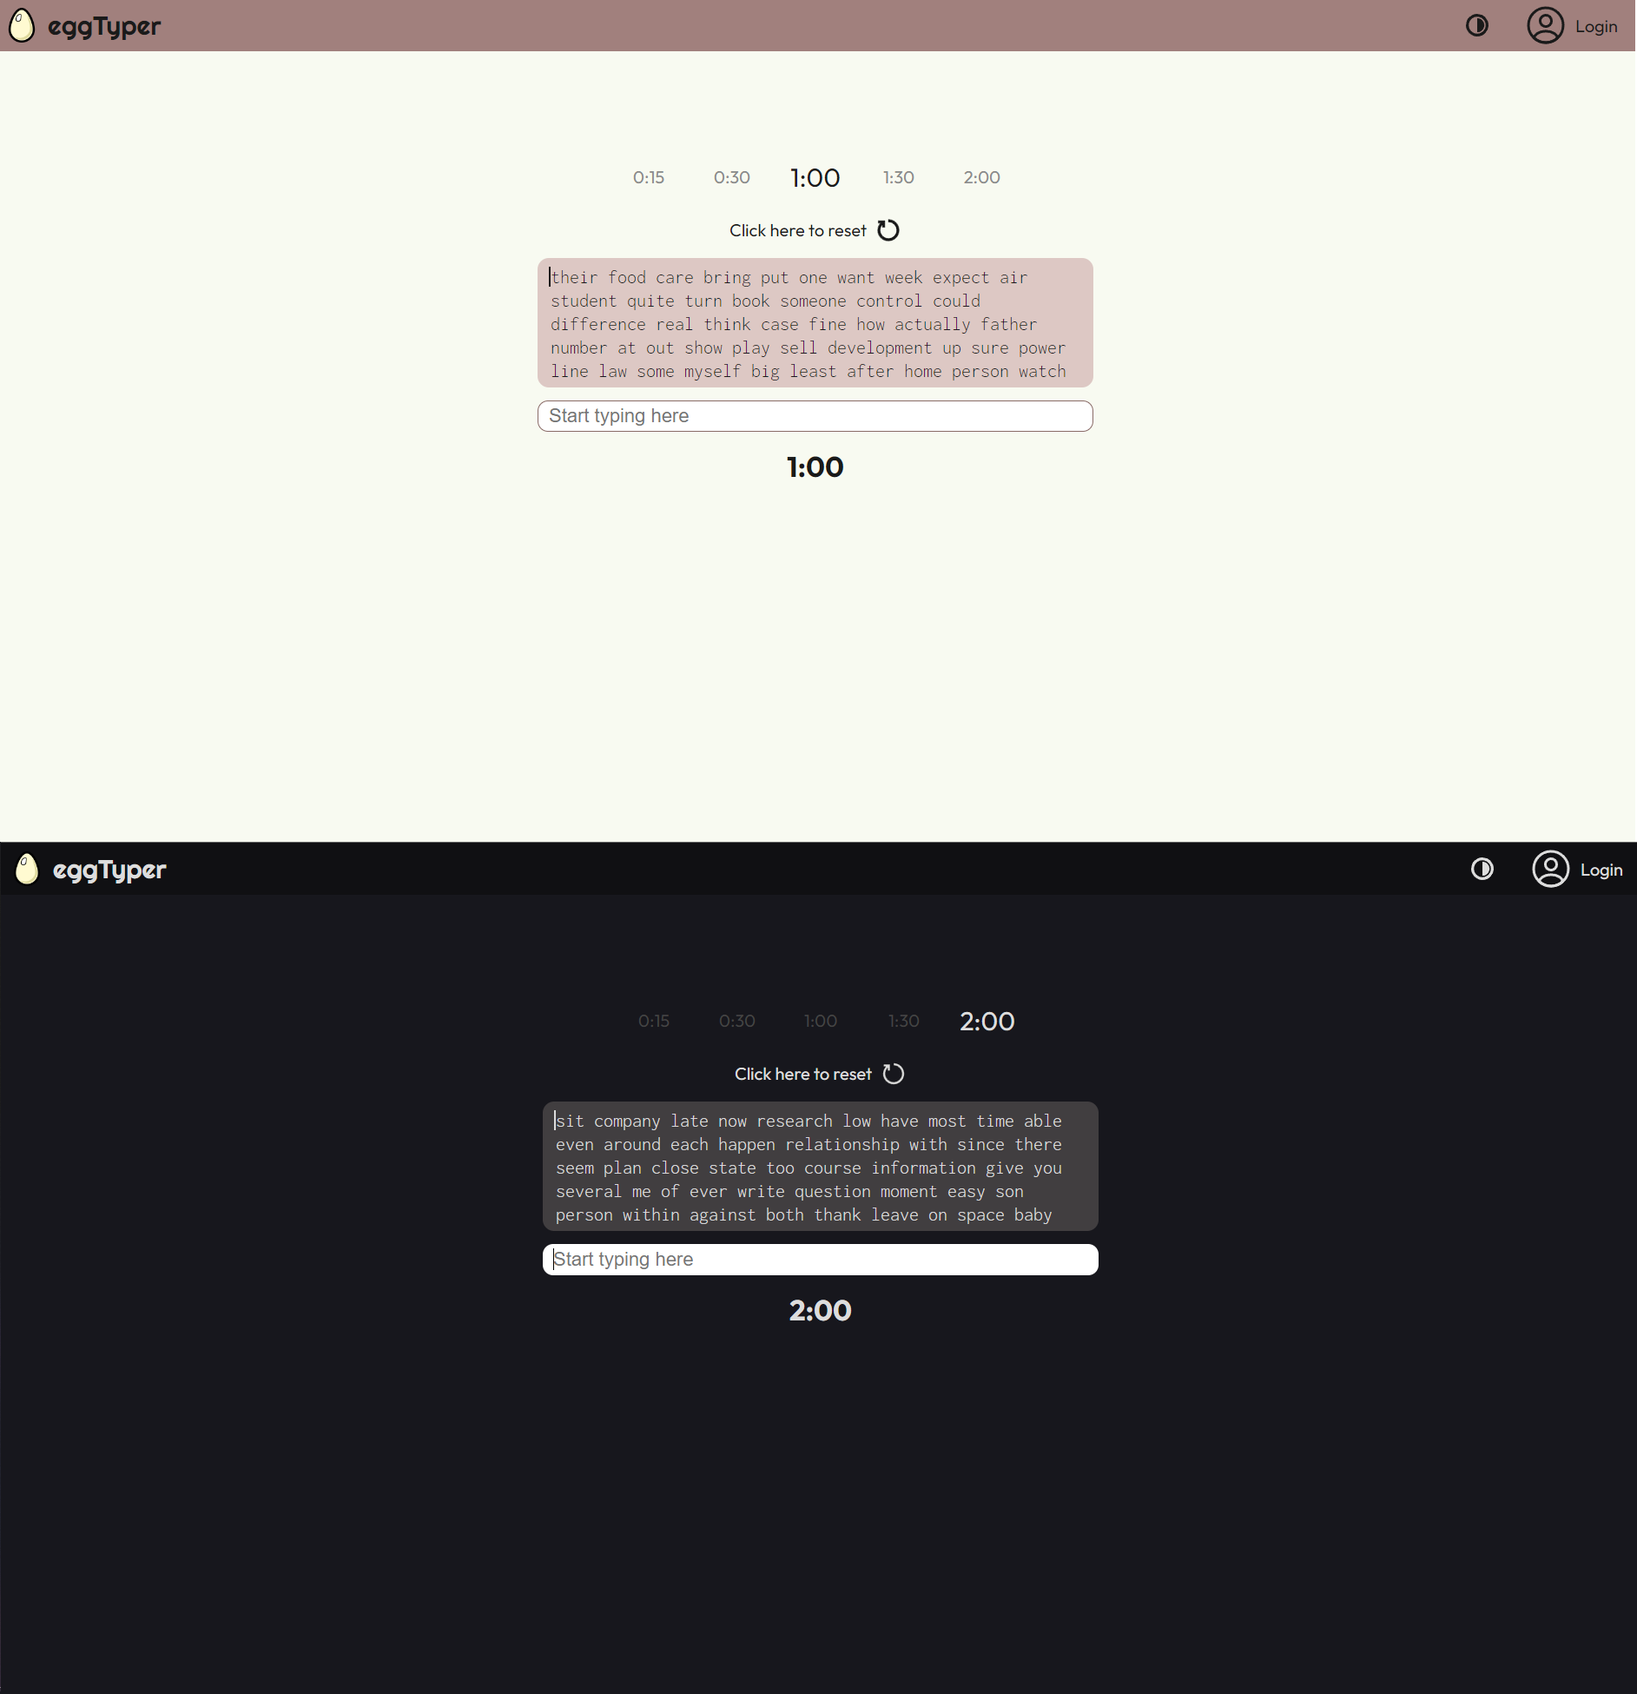
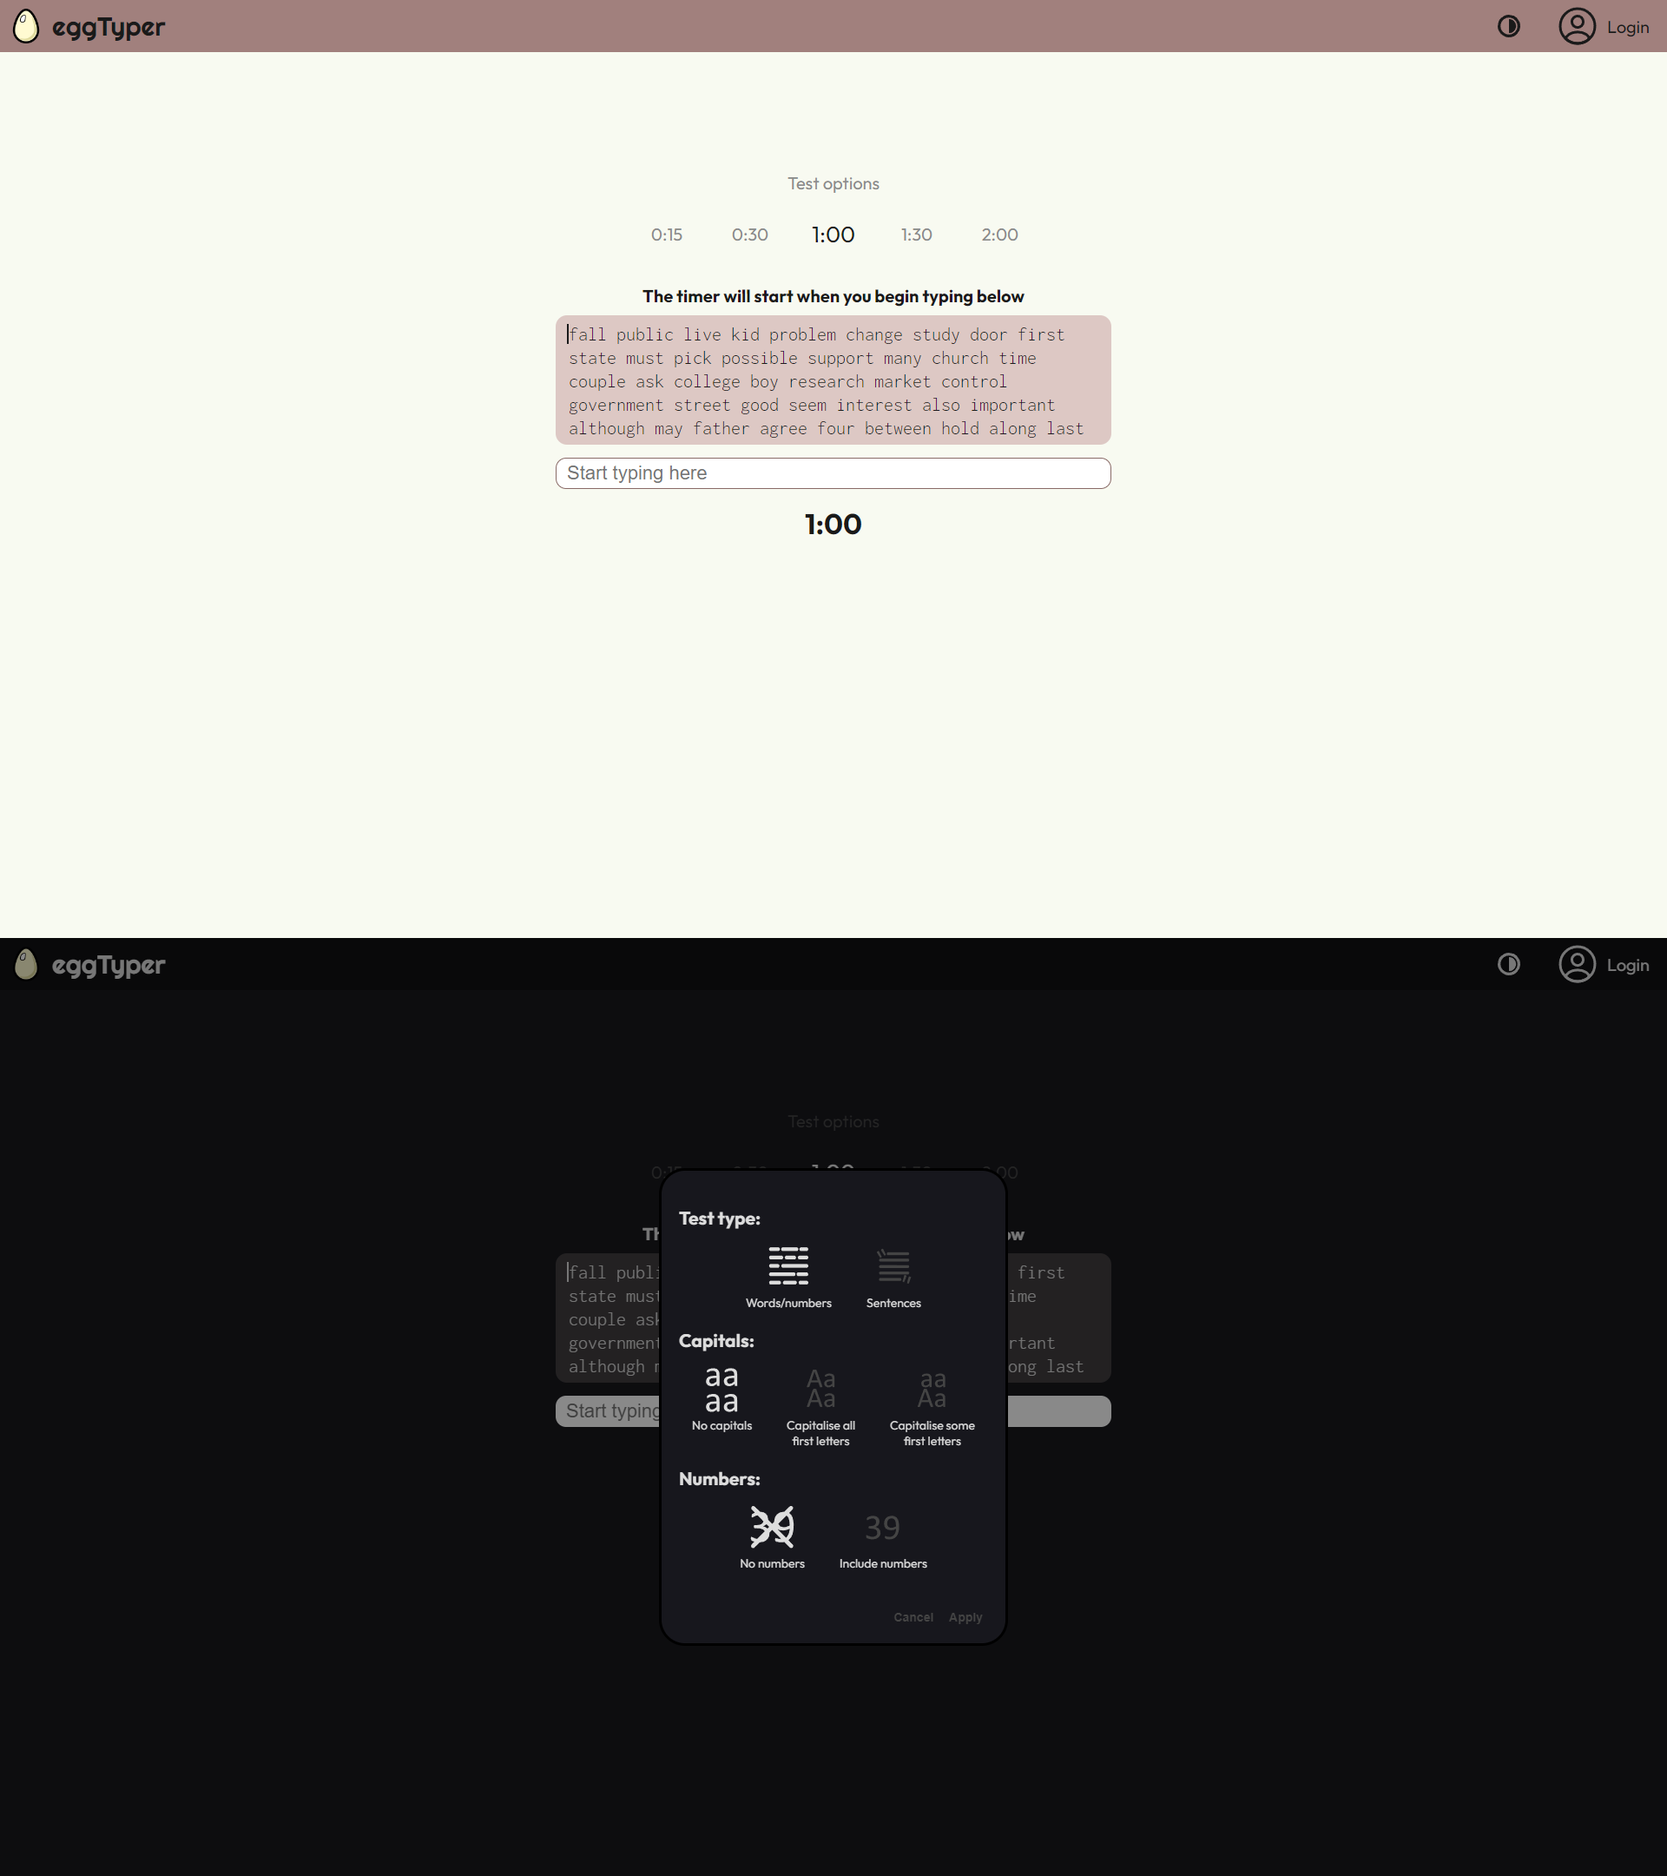
Update image and changelog
Also replaced test SVGs

diff --git a/src/html/template.html b/src/html/template.html
@@ -105,11 +105,11 @@
                 <h3>Test type:</h3>
                 <div class="options">
                     <label for="words">
-                        <svg viewBox="-45 10 500 500" fill="currentColor">
-                            <g id="svgg">
-                                <path id="path0"
-                                    d="M108.419 56.238 C 76.567 61.527,61.414 73.942,68.790 88.706 C 71.018 93.167,73.094 92.920,85.627 86.705 C 99.709 79.722,106.772 77.833,119.097 77.751 C 143.625 77.588,152.689 87.527,152.756 114.655 L 152.772 121.301 134.908 121.824 C 108.698 122.591,92.880 125.903,80.858 133.142 C 52.249 150.368,54.097 195.341,83.974 208.981 C 106.108 219.087,133.293 214.739,151.109 198.245 L 156.057 193.663 156.057 201.535 C 156.057 208.904,156.182 209.489,157.998 210.679 C 162.406 213.568,175.414 212.970,178.654 209.729 C 180.736 207.648,180.030 99.214,177.879 90.760 C 170.951 63.523,144.305 50.280,108.419 56.238 M270.226 55.601 C 251.847 57.567,229.752 66.433,226.203 73.265 C 224.802 75.963,224.664 86.435,225.996 88.966 C 228.215 93.183,230.360 92.983,240.897 87.581 C 272.063 71.601,300.740 74.613,307.566 94.583 C 308.617 97.657,309.181 102.321,309.449 110.136 L 309.830 121.299 292.287 121.829 C 246.250 123.218,224.225 134.652,218.866 159.943 C 208.412 209.274,271.146 234.218,310.678 196.449 L 313.758 193.506 313.758 201.457 C 313.758 211.593,314.528 212.320,325.257 212.320 C 330.626 212.320,332.841 211.973,334.533 210.864 L 336.756 209.408 336.756 154.487 C 336.756 87.326,336.392 84.488,326.137 71.601 C 316.445 59.421,294.152 53.042,270.226 55.601 M152.772 157.076 L 152.772 172.058 147.228 177.298 C 121.135 201.959,88.519 197.028,88.610 168.435 C 88.670 149.491,101.477 142.286,135.318 142.160 L 152.772 142.094 152.772 157.076 M309.651 157.185 L 309.651 172.276 303.696 177.924 C 278.536 201.790,246.361 196.918,246.073 169.199 C 245.867 149.416,258.119 142.297,292.608 142.161 L 309.651 142.094 309.651 157.185 M108.419 283.754 C 76.567 289.043,61.414 301.457,68.790 316.222 C 71.018 320.682,73.094 320.435,85.627 314.220 C 99.709 307.238,106.772 305.348,119.097 305.266 C 143.625 305.104,152.689 315.042,152.756 342.170 L 152.772 348.816 134.908 349.339 C 108.698 350.107,92.880 353.419,80.858 360.658 C 52.249 377.883,54.097 422.857,83.974 436.497 C 106.108 446.602,133.293 442.255,151.109 425.760 L 156.057 421.178 156.057 429.051 C 156.057 436.419,156.182 437.004,157.998 438.194 C 162.406 441.083,175.414 440.485,178.654 437.245 C 180.736 435.163,180.030 326.729,177.879 318.275 C 170.951 291.038,144.305 277.795,108.419 283.754 M270.226 283.117 C 251.847 285.083,229.752 293.948,226.203 300.781 C 224.802 303.478,224.664 313.951,225.996 316.481 C 228.215 320.698,230.360 320.499,240.897 315.096 C 272.063 299.117,300.740 302.128,307.566 322.099 C 308.617 325.172,309.181 329.837,309.449 337.652 L 309.830 348.815 292.287 349.344 C 246.250 350.734,224.225 362.167,218.866 387.458 C 208.412 436.789,271.146 461.733,310.678 423.965 L 313.758 421.022 313.758 428.972 C 313.758 439.108,314.528 439.836,325.257 439.836 C 330.626 439.836,332.841 439.488,334.533 438.379 L 336.756 436.923 336.756 382.002 C 336.756 314.841,336.392 312.003,326.137 299.117 C 316.445 286.937,294.152 280.557,270.226 283.117 M152.772 384.592 L 152.772 399.573 147.228 404.813 C 121.135 429.474,88.519 424.543,88.610 395.951 C 88.670 377.007,101.477 369.802,135.318 369.675 L 152.772 369.610 152.772 384.592 M309.651 384.701 L 309.651 399.791 303.696 405.440 C 278.536 429.305,246.361 424.434,246.073 396.715 C 245.867 376.931,258.119 369.812,292.608 369.677 L 309.651 369.610 309.651 384.701 "
-                                    stroke="none" fill-rule="evenodd"></path>
+                        <svg fill="currentColor" viewBox="-29 0, 450 450">
+                            <g>
+                                <path
+                                    d="M50.136 54.076 C 40.184 59.036,39.313 73.804,48.586 80.322 L 51.448 82.333 85.333 82.333 L 119.218 82.333 122.080 80.322 C 130.693 74.269,130.693 61.066,122.081 55.011 L 119.220 53.000 86.110 52.824 C 53.431 52.650,52.963 52.667,50.136 54.076 M146.136 54.080 C 136.185 59.025,135.313 73.804,144.586 80.322 L 147.448 82.333 207.000 82.333 L 266.552 82.333 269.414 80.322 C 278.027 74.269,278.027 61.065,269.414 55.011 L 266.552 53.000 207.776 52.828 L 149.000 52.656 146.136 54.080 M292.136 54.073 C 282.184 59.042,281.312 73.804,290.586 80.322 L 293.448 82.333 319.667 82.333 L 345.885 82.333 348.747 80.322 C 357.360 74.269,357.360 61.066,348.748 55.011 L 345.887 53.000 320.444 52.822 C 295.578 52.647,294.935 52.676,292.136 54.073 M50.136 120.745 C 40.185 125.696,39.313 140.471,48.586 146.989 L 51.448 149.000 98.667 149.000 L 145.885 149.000 148.747 146.989 C 157.360 140.935,157.360 127.732,148.747 121.678 L 145.886 119.667 99.443 119.493 C 53.170 119.321,52.989 119.325,50.136 120.745 M175.469 120.743 C 165.518 125.701,164.646 140.471,173.920 146.989 L 176.782 149.000 212.333 149.000 L 247.885 149.000 250.747 146.989 C 259.360 140.935,259.360 127.732,250.748 121.678 L 247.886 119.667 213.110 119.491 C 178.732 119.318,178.301 119.332,175.469 120.743 M279.469 120.742 C 269.518 125.703,268.646 140.471,277.920 146.989 L 280.782 149.000 313.333 149.000 L 345.885 149.000 348.747 146.989 C 357.360 140.935,357.360 127.733,348.748 121.678 L 345.887 119.667 314.110 119.490 C 282.790 119.317,282.292 119.335,279.469 120.742 M50.136 187.409 C 40.184 192.370,39.313 207.137,48.586 213.655 L 51.448 215.667 83.667 215.667 L 115.885 215.667 118.747 213.655 C 127.360 207.602,127.360 194.399,118.748 188.345 L 115.887 186.333 84.443 186.157 C 53.463 185.983,52.958 186.002,50.136 187.409 M147.469 187.415 C 137.519 192.353,136.646 207.138,145.920 213.655 L 148.782 215.667 247.333 215.667 L 345.885 215.667 348.747 213.655 C 357.360 207.602,357.360 194.398,348.747 188.345 L 345.885 186.333 248.109 186.164 L 150.333 185.994 147.469 187.415 M50.136 254.082 C 40.186 259.020,39.313 273.804,48.586 280.322 L 51.448 282.333 147.333 282.333 L 243.218 282.333 246.080 280.322 C 254.693 274.268,254.693 261.065,246.080 255.011 L 243.219 253.000 148.109 252.830 L 53.000 252.660 50.136 254.082 M269.469 254.077 C 259.518 259.033,258.646 273.804,267.920 280.322 L 270.782 282.333 308.333 282.333 L 345.885 282.333 348.747 280.322 C 357.360 274.269,357.360 261.066,348.748 255.011 L 345.886 253.000 309.110 252.825 C 272.693 252.652,272.305 252.664,269.469 254.077 M50.136 320.743 C 40.185 325.700,39.313 340.471,48.586 346.989 L 51.448 349.000 89.667 349.000 L 127.885 349.000 130.747 346.989 C 139.360 340.935,139.360 327.732,130.748 321.678 L 127.886 319.667 90.443 319.492 C 53.346 319.318,52.974 319.330,50.136 320.743 M160.136 320.745 C 150.185 325.696,149.313 340.471,158.586 346.989 L 161.448 349.000 208.000 349.000 L 254.552 349.000 257.414 346.989 C 266.027 340.935,266.027 327.732,257.414 321.678 L 254.553 319.667 208.776 319.493 C 163.183 319.320,162.989 319.325,160.136 320.745 M285.469 320.741 C 275.517 325.706,274.646 340.471,283.920 346.989 L 286.782 349.000 316.333 349.000 L 345.885 349.000 348.747 346.989 C 357.360 340.935,357.360 327.733,348.748 321.678 L 345.887 319.667 317.110 319.489 C 288.848 319.315,288.282 319.338,285.469 320.741">
+                                </path>
                             </g>
                         </svg>
                         Words/numbers
@@ -118,11 +118,11 @@
                         name="test-type" value="words" checked>
 
                     <label for="sentences">
-                        <svg viewBox="-65 10 500 500" fill="currentColor">
-                            <g id="svgg">
-                                <path id="path0"
-                                    d="M93.805 3.703 C 90.239 5.252,93.180 -2.336,53.385 108.008 C 18.917 203.578,17.263 208.688,20.111 210.770 C 23.955 213.581,42.217 212.768,45.337 209.648 C 46.141 208.844,50.735 196.642,55.546 182.533 L 64.295 156.879 107.107 156.879 L 149.920 156.879 158.943 182.545 C 169.359 212.169,168.946 211.515,177.751 212.340 C 191.363 213.616,198.440 211.470,197.731 206.283 C 197.258 202.821,127.731 9.592,125.921 6.708 C 123.282 2.503,101.300 0.447,93.805 3.703 M124.803 83.678 C 134.349 110.953,142.017 133.411,141.844 133.584 C 141.671 133.757,125.812 133.802,106.602 133.684 L 71.674 133.470 89.020 83.222 C 98.560 55.585,106.609 33.224,106.906 33.530 C 107.203 33.836,115.257 56.402,124.803 83.678 M270.226 55.601 C 247.026 58.083,226.609 67.813,225.143 77.088 C 222.852 91.585,227.286 94.809,240.094 87.955 C 265.072 74.588,291.360 73.832,302.497 86.159 C 307.325 91.504,308.996 97.290,309.459 110.267 L 309.861 121.561 299.198 121.561 C 238.827 121.561,209.842 142.953,218.792 180.904 C 227.084 216.060,275.350 226.220,307.103 199.492 L 312.936 194.582 312.936 201.230 C 312.936 207.125,313.156 208.097,314.880 209.821 C 318.227 213.168,330.140 213.605,334.944 210.556 L 336.828 209.360 336.563 152.113 C 336.269 88.590,336.270 88.600,330.431 77.873 C 321.394 61.269,298.033 52.627,270.226 55.601 M309.651 157.190 L 309.651 172.286 303.792 177.812 C 277.683 202.442,243.686 195.939,245.777 166.715 C 247.055 148.856,259.576 142.291,292.608 142.161 L 309.651 142.094 309.651 157.190 M93.805 231.219 C 90.239 232.768,93.180 225.179,53.385 335.523 C 18.917 431.093,17.263 436.203,20.111 438.286 C 23.955 441.096,42.217 440.284,45.337 437.164 C 46.141 436.360,50.735 424.158,55.546 410.048 L 64.295 384.394 107.107 384.394 L 149.920 384.394 158.943 410.060 C 169.359 439.685,168.946 439.030,177.751 439.855 C 191.363 441.131,198.440 438.985,197.731 433.798 C 197.258 430.337,127.731 237.107,125.921 234.223 C 123.282 230.019,101.300 227.962,93.805 231.219 M124.803 311.193 C 134.349 338.468,142.017 360.926,141.844 361.099 C 141.671 361.272,125.812 361.318,106.602 361.200 L 71.674 360.986 89.020 310.737 C 98.560 283.101,106.609 260.739,106.906 261.045 C 107.203 261.351,115.257 283.918,124.803 311.193 M270.226 283.117 C 247.026 285.598,226.609 295.329,225.143 304.603 C 222.852 319.101,227.286 322.324,240.094 315.470 C 265.072 302.104,291.360 301.347,302.497 313.675 C 307.325 319.019,308.996 324.805,309.459 337.782 L 309.861 349.076 299.198 349.076 C 238.827 349.076,209.842 370.469,218.792 408.419 C 227.084 443.575,275.350 453.735,307.103 427.007 L 312.936 422.097 312.936 428.745 C 312.936 434.640,313.156 435.613,314.880 437.336 C 318.227 440.684,330.140 441.120,334.944 438.071 L 336.828 436.875 336.563 379.629 C 336.269 316.105,336.270 316.115,330.431 305.388 C 321.394 288.784,298.033 280.142,270.226 283.117 M309.651 384.705 L 309.651 399.801 303.792 405.328 C 277.683 429.958,243.686 423.455,245.777 394.230 C 247.055 376.371,259.576 369.807,292.608 369.677 L 309.651 369.610 309.651 384.705 "
-                                    stroke="none" fill-rule="evenodd"></path>
+                        <svg fill="currentColor" viewBox="-25 0 450 450">
+                            <g>
+                                <path
+                                    d="M79.107 15.782 C 78.932 15.957,78.386 16.161,77.894 16.234 C 74.125 16.801,63.041 24.241,62.064 26.860 C 61.545 28.250,67.395 40.077,69.193 41.275 C 69.517 41.490,70.928 43.767,72.329 46.333 C 73.731 48.900,75.394 51.600,76.026 52.333 C 76.658 53.067,78.437 55.915,79.980 58.664 C 81.523 61.412,83.018 63.812,83.302 63.997 C 83.587 64.182,84.812 66.133,86.025 68.333 C 87.238 70.533,89.191 73.683,90.365 75.333 C 91.539 76.983,93.108 79.533,93.851 81.000 C 97.176 87.557,99.830 88.290,106.621 84.528 C 114.199 80.330,114.388 77.859,107.990 66.570 C 106.529 63.991,105.333 61.644,105.333 61.355 C 105.333 61.066,102.611 55.468,99.284 48.915 C 95.956 42.362,93.135 36.550,93.013 36.000 C 92.892 35.450,91.414 32.557,89.730 29.571 C 88.045 26.584,86.667 23.718,86.667 23.201 C 86.667 22.081,82.920 16.022,82.181 15.949 C 81.898 15.921,81.162 15.800,80.545 15.681 C 79.929 15.562,79.281 15.608,79.107 15.782 M34.994 39.943 C 32.504 40.669,21.673 46.888,20.818 48.082 C 20.352 48.734,19.535 49.703,19.003 50.235 C 17.961 51.277,20.515 56.993,24.706 63.000 C 25.729 64.467,27.836 67.917,29.389 70.667 C 30.942 73.417,32.573 75.967,33.015 76.333 C 33.456 76.700,35.075 79.318,36.613 82.151 C 38.151 84.984,39.675 87.466,40.000 87.667 C 40.325 87.868,41.863 90.350,43.418 93.183 C 44.973 96.015,46.481 98.430,46.770 98.549 C 47.058 98.668,48.560 101.068,50.107 103.882 C 54.337 111.577,56.362 112.270,63.331 108.410 C 71.278 104.009,71.490 102.277,65.394 91.520 C 63.894 88.873,62.667 86.456,62.667 86.150 C 62.667 85.843,60.093 80.508,56.948 74.296 C 53.803 68.083,51.132 62.550,51.011 62.000 C 50.891 61.450,49.414 58.557,47.730 55.571 C 46.045 52.584,44.667 49.788,44.667 49.357 C 44.667 48.925,43.692 46.795,42.500 44.622 C 40.092 40.231,38.153 39.022,34.994 39.943 M130.136 54.082 C 120.186 59.019,119.313 73.804,128.586 80.322 L 131.448 82.333 238.667 82.333 L 345.885 82.333 348.747 80.322 C 357.360 74.268,357.360 61.065,348.747 55.011 L 345.885 53.000 239.443 52.831 L 133.000 52.661 130.136 54.082 M50.136 120.750 C 40.186 125.683,39.313 140.471,48.586 146.989 L 51.448 149.000 198.667 149.000 L 345.885 149.000 348.747 146.989 C 357.360 140.935,357.360 127.732,348.747 121.678 L 345.885 119.667 199.443 119.498 L 53.000 119.329 50.136 120.750 M50.136 187.416 C 40.186 192.350,39.313 207.138,48.586 213.655 L 51.448 215.667 198.667 215.667 L 345.885 215.667 348.747 213.655 C 357.360 207.602,357.360 194.398,348.747 188.345 L 345.885 186.333 199.443 186.165 L 53.000 185.996 50.136 187.416 M50.136 254.083 C 40.186 259.017,39.313 273.804,48.586 280.322 L 51.448 282.333 198.667 282.333 L 345.885 282.333 348.747 280.322 C 357.360 274.268,357.360 261.065,348.747 255.011 L 345.885 253.000 199.443 252.831 L 53.000 252.663 50.136 254.083 M305.396 289.308 C 304.514 289.522,303.549 290.140,303.250 290.682 C 302.468 292.099,299.333 302.549,299.333 303.736 C 299.333 304.287,298.609 307.346,297.724 310.535 C 296.838 313.724,295.446 318.733,294.630 321.667 C 293.814 324.600,292.931 328.200,292.667 329.667 C 292.403 331.133,291.517 334.733,290.699 337.667 C 284.707 359.156,284.663 358.835,293.954 361.592 C 302.222 364.045,303.456 363.069,307.342 351.000 C 308.168 348.433,309.072 346.033,309.350 345.667 C 309.629 345.300,310.653 342.463,311.627 339.362 C 312.602 336.262,313.652 333.412,313.961 333.029 C 314.270 332.646,315.320 329.796,316.294 326.696 C 317.268 323.595,318.318 320.745,318.627 320.362 C 318.937 319.980,319.987 317.130,320.961 314.029 C 321.935 310.928,322.977 308.078,323.277 307.696 C 324.481 306.160,326.682 298.147,326.232 296.938 C 324.771 293.012,310.970 287.958,305.396 289.308 M351.058 304.093 C 351.214 304.346,351.085 304.653,350.772 304.776 C 350.037 305.065,346.154 318.470,343.272 330.667 C 342.882 332.317,341.837 336.085,340.948 339.040 C 340.060 341.995,339.333 344.936,339.333 345.575 C 339.333 346.214,338.600 349.346,337.703 352.535 C 332.396 371.404,332.184 374.000,335.952 374.000 C 336.345 374.000,336.667 374.229,336.667 374.508 C 336.667 375.355,344.951 377.450,347.383 377.217 C 350.083 376.959,351.330 374.940,354.554 365.607 C 358.412 354.438,361.113 347.001,362.159 344.667 C 362.735 343.383,363.715 340.533,364.338 338.333 C 364.961 336.133,365.860 333.713,366.337 332.955 C 366.814 332.197,367.859 329.347,368.660 326.622 C 369.461 323.897,370.513 321.043,370.998 320.282 C 371.483 319.520,372.354 317.302,372.932 315.353 L 373.985 311.810 371.754 309.706 C 368.384 306.527,349.376 301.373,351.058 304.093 M50.136 320.749 C 40.186 325.685,39.313 340.471,48.586 346.989 L 51.448 349.000 158.667 349.000 L 265.885 349.000 268.747 346.989 C 277.360 340.935,277.360 327.732,268.747 321.678 L 265.885 319.667 159.443 319.497 L 53.000 319.328 50.136 320.749 ">
+                                </path>
                             </g>
                         </svg>
                         Sentences

diff --git a/README.md b/README.md
@@ -3,9 +3,19 @@
 ## eggTyper | A clean, simple typing speed tester
 <br>
 
+### <b>Major changes:</b>
+
+- Refactor to use Webpack5 and ES6 classes
+- Add multiple new test configurations (words/sentences, capilisation, numbers etc.)
+- Uses quote-library package https://www.npmjs.com/package/quote-library
+
+<br>
+
 ![screenshot](./eggTyper.png)
 
-### Description:
+<br>
+
+### <b>Description:</b>
 
 This is eggTyper, inspired by an annoyance with the overabundance of ugly, cluttered typing speed websites out there (bar a few).
 
